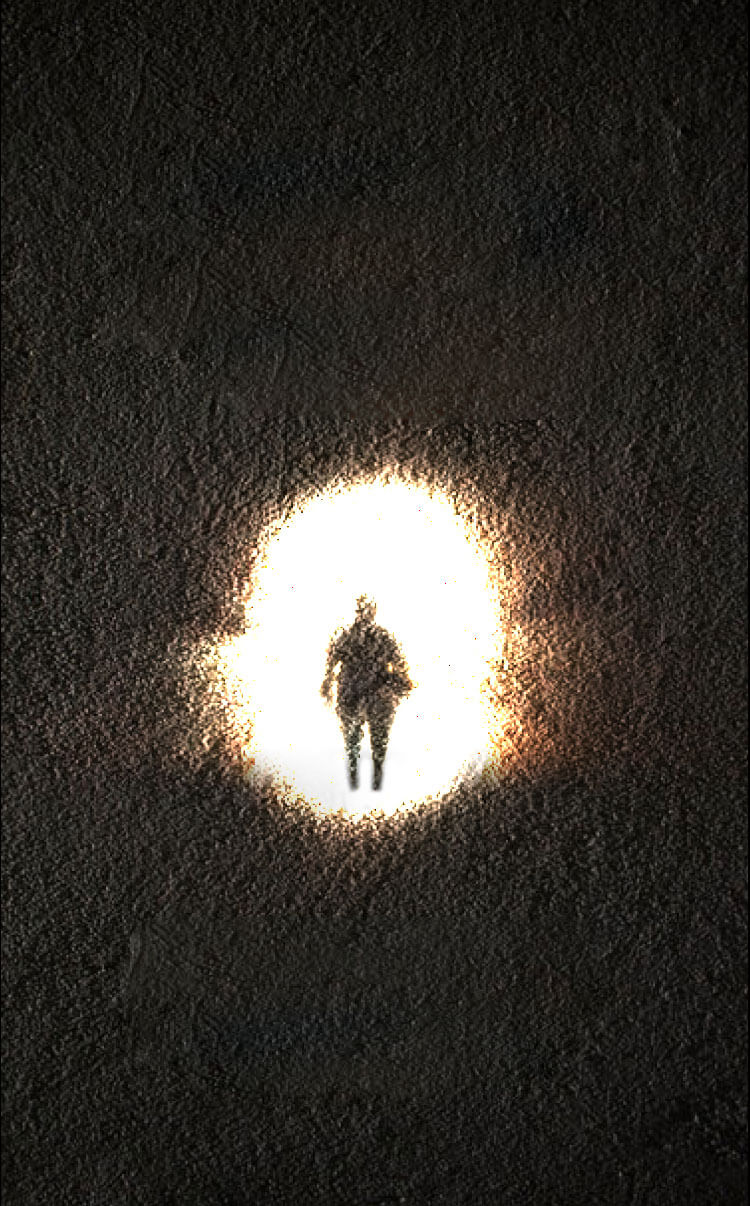
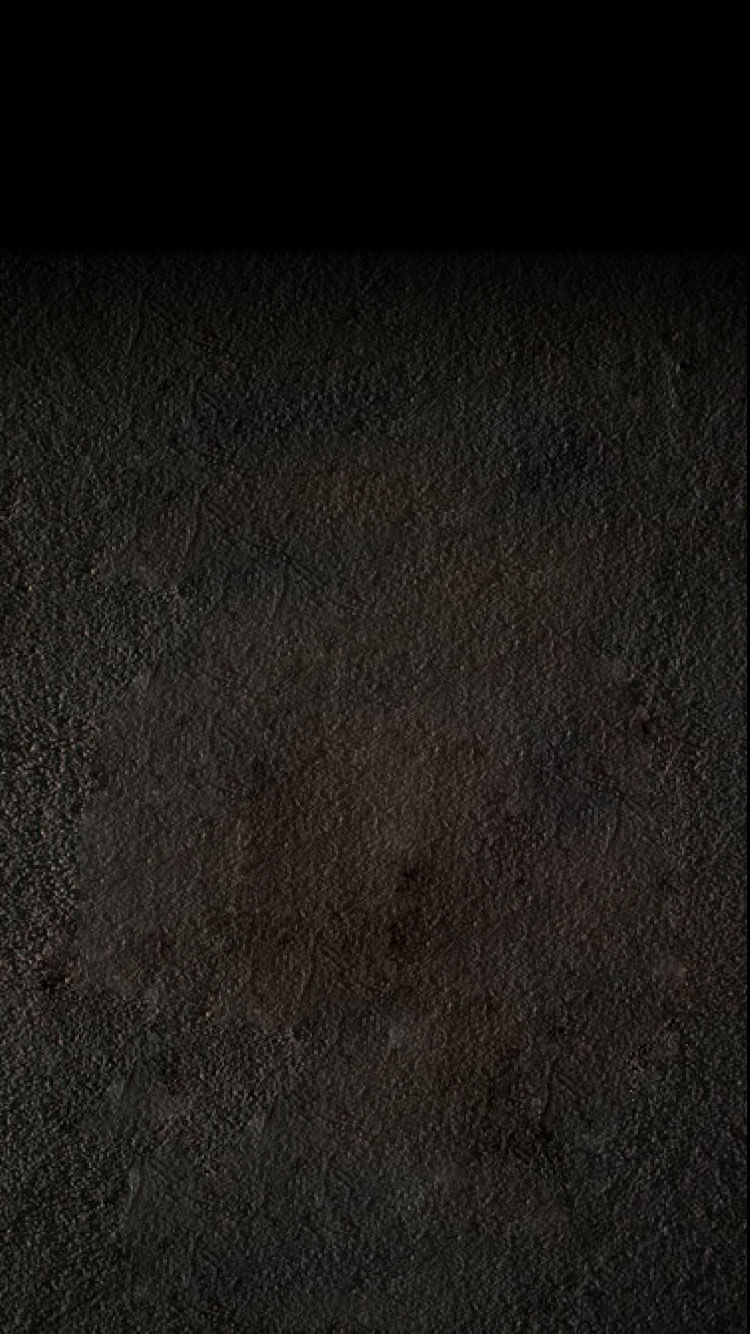
update new

diff --git a/src/Loreal/MenexpertBundle/Resources/public/css/main.css b/src/Loreal/MenexpertBundle/Resources/public/css/main.css
@@ -10,6 +10,17 @@ html{
     margin: 0;
     padding: 0;
 }
+
+.shareimg{
+    position: absolute;
+    left: 0;
+    top: 0;
+    opacity: 0;
+    z-index: -1;
+    width: 100%;
+    height: 100%;
+    overflow: hidden;
+}
 @-webkit-keyframes rotation {
   10% {
     transform: rotate(90deg);
@@ -120,6 +131,7 @@ html{
   position: relative;
   width:50%;
   margin:20% 0 0 25%;
+  z-index:10;
 }
 .kv{
   position: relative;
@@ -203,6 +215,7 @@ html{
   position: relative;
   width:50%;
   margin:16% 0 0 25%;
+  z-index:10;
 }
 .address{
   width:54%;
@@ -426,13 +439,73 @@ html{
   width:100%;
   height:100%;
   position:absolute;
-  background: #000 url("/images/sec_index/bg.jpg") no-repeat;
-  background-size: 100%;
+  background: url("/images/sec_index/bg.jpg") no-repeat;
+  background-size: 100% 100%;
   top:0;
   left:0;
   overflow: hidden;
   text-align: center;
+}
+.zoom{
+  width: 100%;
+}
+.round{
+  width:100%;
+  position: absolute;
+  top:20%;
+  left:0%;
+  z-index:0;
+  /*animation: zoom 1.5s 2 linear;
+  -webkit-animation: zoom 1.5s 2 linear;
+  animation-fill-mode: forwards;
+  -webkit-animation-fill-mode: forwards;*/
+}
+.index_ani{
+  animation: zoom 1.5s 2 linear;
+  -webkit-animation: zoom 1.5s 2 linear;
+  animation-fill-mode: forwards;
+  -webkit-animation-fill-mode: forwards;
+}
+@keyframes zoom{
+  0% { transform: scale(1); }
+  25% { transform: scale(1.1); }
+  50% { transform: scale(1.2); }
+  75% { transform: scale(1.1); }
+  100% { transform: scale(1); }
+}
+@-webkit-keyframes zoom{
+  0% { -webkit-transform: scale(1); }
+  25% { -webkit-transform: scale(1.1); }
+  50% { -webkit-transform: scale(1.2); }
+  75% { -webkit-transform: scale(1.1); }
+  100% { -webkit-transform: scale(1); }
+}
 
+.human{
+  width:100%;
+  position: absolute;
+  top:20%;
+  left:0%;
+  z-index:100;
+}
+
+
+/* result */
+.result{
+    width:100%;
+    height:100%;
+    overflow: hidden;
+    background:url('/images/bg.jpg') no-repeat;
+    background-size: 100%;
+    position:absolute;
+    top:0;
+    left:0;
+    text-align: center;
+}
+.last_title{
+  width:70%;
+  position: relative;
+  margin:10% 0 10% 15%;
 }
 
 

diff --git a/src/Loreal/MenexpertBundle/Resources/public/js/main.js b/src/Loreal/MenexpertBundle/Resources/public/js/main.js
@@ -36,6 +36,18 @@
 			$(".tips_content").fadeOut();
 
 		});
+		
+
+
+		
+
+		$(".round").addClass("index_ani").animate({opacity:"1"},100,function(){
+			window.location.href="";
+		});
+
+		
+	
+
 
 
 	})
